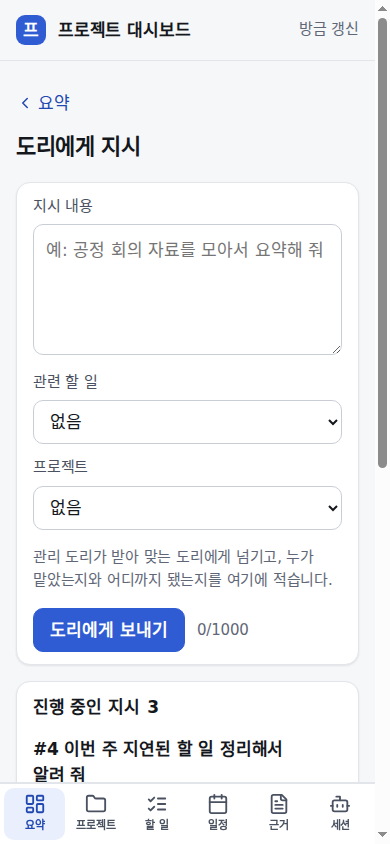
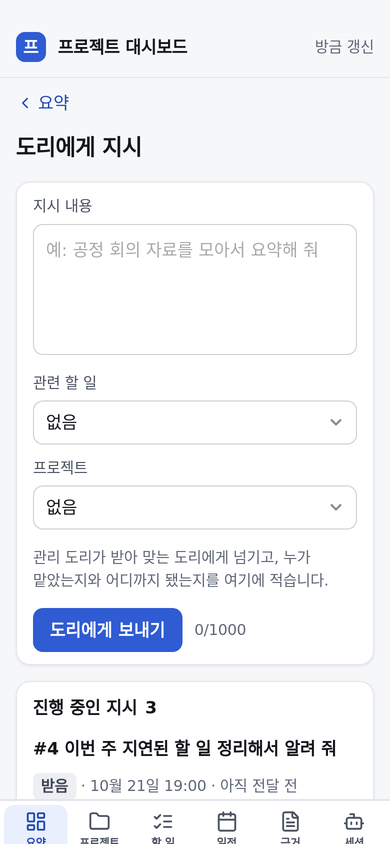
docs(project-board): the 도리 지시 guide and feature page describe the re-checked screens (summary result rows, project orders, sent line, plain history) with new demo captures

diff --git a/docs/guide/프로젝트-대시보드.md b/docs/guide/프로젝트-대시보드.md
@@ -320,10 +320,17 @@ PRAGMA user_version = 2;
 
 ## 도리에게 지시 (2026-10-21 소유자 지시)
 
-소유자가 대시보드에서 도리에게 일을 맡기는 칸이다. 요약의 「도리에게 지시」 상자 → `#orders`(지시 칸·진행 중인 지시·접힌
-끝난 지시), 지시 하나는 `#order/<번호>`(지시 내용, 받음→넘김→처리 중→끝 단계, 받는 도리·전달 시각, 맡은 도리, 도리 방 글,
-관련 할 일·프로젝트 링크, 기록). 할 일 화면에는 그 할 일에 대한 지시 목록과 「이 할 일로 도리에게 지시」(관련 할 일이 미리
-골라진 지시 칸)가 붙는다. 지시는 소유자의 말이라 밖으로 나가는 사본(`digest`·파일 모드)에는 싣지 않는다.
+소유자가 대시보드에서 도리에게 일을 맡기는 칸이다. 요약의 「도리에게 지시」 상자 → `#orders`(지시 칸·진행 중인 지시·끝난
+지시, 진행 중인 지시가 없으면 끝난 지시를 펼쳐 둔다), 지시 하나는 `#order/<번호>`(지시 내용, 받음→넘김→처리 중→끝 단계 — 지난
+단계는 ✓, 받는 도리와 전달 시각, 맡은 도리, 도리 방 글, 관련 할 일·프로젝트 링크, 메모, 기록). 요약 상자는 진행 중인 지시를 먼저,
+자리가 남으면 가장 최근에 끝난 지시를 메모(결과)와 함께 세 줄까지 보인다. 목록 한 줄은 「상태 · 보낸 때 · 누가 갖고 있나(아직 전달 전 /
+<받는 도리>에게 전달됨 / 맡은 도리 <이름>) · 할 일·프로젝트 · 도리 방 글」에 메모가 있으면 그 아래 한 줄이다. 기록은 바꾼 줄에만
+바꾼 도리를 적고(만든 줄의 로그인 주소·127.0.0.1은 보이지 않는다 — 보낸 기기 칸이 말한다), 문지기가 잇달아 쓴 근거 확인은
+「쓰기 근거로 확인됨 (N번)」 한 줄로 묶는다. 할 일 화면과 프로젝트 화면에는 그 할 일·프로젝트에 대한 지시 목록과 「이 할 일로/이
+프로젝트로 도리에게 지시」(그것이 미리 골라진 지시 칸)가 붙는다. 할 일을 고르면 프로젝트 칸은 잠기고 「고른 할 일의 프로젝트로
+정해집니다」가 보인다. 보내면 새 지시 화면이 열리고 맨 위에 「보냈습니다 …」 한 줄이 한 번 보인다. 지시 목록에서 연 지시의
+뒤로 가기는 「도리에게 지시」로 돌아간다. 지시는 소유자의 말이라 밖으로 나가는 사본(`digest`·파일 모드)에는 싣지 않는다
+(2026-10-22 폰·데스크톱 재점검, `layout_audit.mjs` 0건).
 
 - **저장**: `POST /order/new`(`text` 1~1000자, 선택 `todo`·`project`) — 할 일 체크와 같은 권한(토큰+같은 출처, 또는 허용
   목록 테일넷 로그인+테일넷 `Origin`), 아니면 401/403. 없는 할 일·프로젝트는 400. 할 일을 고르면 프로젝트는 그 할 일의 것.

diff --git a/docs/기능소개/프로젝트-대시보드-도리-지시.md b/docs/기능소개/프로젝트-대시보드-도리-지시.md
@@ -11,10 +11,14 @@
 
 ## 사용 시나리오
 - **할 일에서 시키기**: 폰에서 할 일 화면을 열고 「이 할 일로 도리에게 지시」를 누른다 → 그 할 일이 골라진 지시 칸이 열린다 →
-  "이거 조사해 줘"를 쓰고 「도리에게 보내기」 → 지시 #N 화면이 열리고 상태는 「받음」, 받는 도리는 「아직 전달 전」.
-  1분 안에 「유돌 · 시각 전달됨」으로 바뀌고, 유돌이 도리 방에 넘기면 「넘김」·맡은 도리·「도리 방에서 보기」 링크가 붙는다.
-  일이 끝나면 「끝」으로 바뀌어 지시 목록의 「끝난 지시」 묶음으로 내려간다.
-- **요약에서 시키기**: 요약의 「도리에게 지시」 상자에서 진행 중인 지시 몇 건과 「지시 쓰기」 버튼을 본다.
+  "이거 조사해 줘"를 쓰고 「도리에게 보내기」 → 지시 #N 화면이 열리고 맨 위에 「보냈습니다」 한 줄, 상태는 「받음」,
+  받는 도리 「유돌」 아래 「아직 전달 전」. 1분 안에 「시각 전달됨」으로 바뀌고, 유돌이 도리 방에 넘기면 「넘김」·맡은 도리·
+  「도리 방에서 보기」 링크가 붙는다. 일이 끝나면 「끝」으로 바뀌어 「끝난 지시」 묶음으로 내려가고, 유돌이 적은 메모(결과)가
+  목록 줄 아래에 보인다.
+- **프로젝트에서 시키기**: 프로젝트 화면 아래 「이 프로젝트에 대한 도리 지시」에서 그 프로젝트 지시를 보고,
+  「이 프로젝트로 도리에게 지시」를 누르면 프로젝트가 골라진 지시 칸이 열린다.
+- **요약에서 보기**: 요약의 「도리에게 지시」 상자에 진행 중인 지시가, 모두 끝났으면 가장 최근에 끝난 지시와 그 메모가
+  세 줄까지 보이고 「지시 쓰기」 버튼이 있다.
 - **거부되는 경우**: 대시보드 권한이 없는 요청(로그인하지 않은 테일넷 계정, 다른 사이트에서 온 요청, 토큰 없는 로컬 요청)은
   저장되지 않는다(401/403). 빈 지시·1000자 넘는 지시·없는 할 일이나 프로젝트는 400으로 거절되고 화면 칸 아래에 이유가 뜬다.
 
